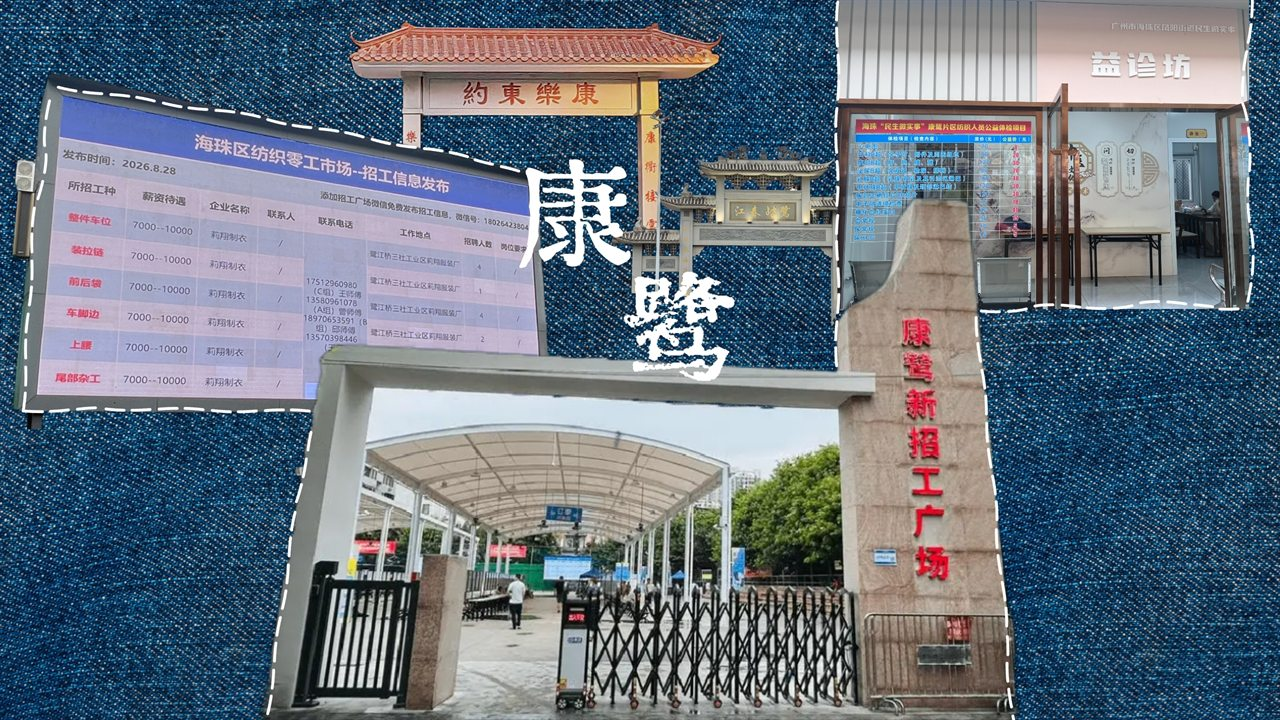
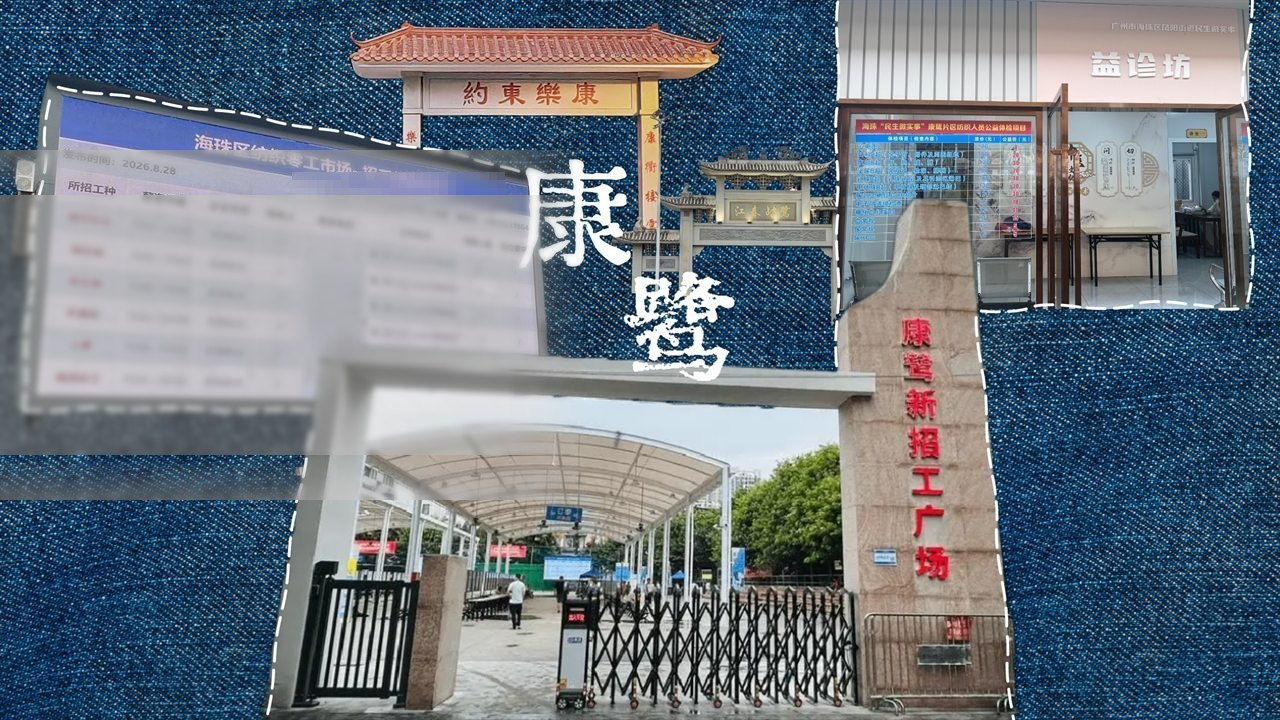
隐私修补：首页封面左半的三维招工屏纹理含可读微信号与手机号（OCR 实测 5 处），已整块柔化处理；OCR 复核 0 残留

Changed region(s): [[0.0, 0.1833, 0.4688, 0.7028], [0.2812, 0.6722, 0.4375, 0.7028]]

diff --git a/kanglu-terminal/map.html b/kanglu-terminal/map.html
@@ -5,9 +5,9 @@
 <meta name="viewport" content="width=device-width, initial-scale=1">
 <title>康鹭地图 · 康鹭记忆</title>
 <meta name="description" content="广州康鹭片区意象地图：产业空间、生活服务、治理节点、交通连接与区域外联五个图层，点击节点查看田野记录。">
-<link rel="stylesheet" href="assets/css/style.css?v=20260920-snm4">
-<link rel="stylesheet" href="assets/css/scene3d.css?v=20260920-snm4">
-<link rel="stylesheet" href="assets/css/scene-host.css?v=20260920-snm4">
+<link rel="stylesheet" href="assets/css/style.css?v=20260920-jkh0">
+<link rel="stylesheet" href="assets/css/scene3d.css?v=20260920-jkh0">
+<link rel="stylesheet" href="assets/css/scene-host.css?v=20260920-jkh0">
 <!-- share-card -->
   <meta property="og:type" content="website">
   <meta property="og:site_name" content="康鹭记忆">
@@ -24,7 +24,7 @@
   <link rel="icon" href="assets/img/favicon.svg">
   <link rel="alternate icon" href="assets/img/icon-180.png">
   <link rel="apple-touch-icon" href="assets/img/icon-180.png">
-<link rel="stylesheet" href="assets/css/brush.css?v=20260920-snm4">
+<link rel="stylesheet" href="assets/css/brush.css?v=20260920-jkh0">
 </head>
 <body data-page="map">
 
@@ -257,12 +257,12 @@
   </div>
 </footer>
 
-<script src="assets/js/data.js?v=20260920-snm4"></script>
-<script src="assets/js/people-data.js?v=20260920-snm4"></script>
-<script src="assets/js/main.js?v=20260920-snm4"></script>
-<script src="assets/js/scene-bundle.js?v=20260920-snm4"></script>
-<script src="assets/js/map3d.js?v=20260920-snm4"></script>
-<script src="assets/js/ai.js?v=20260920-snm4"></script>
+<script src="assets/js/data.js?v=20260920-jkh0"></script>
+<script src="assets/js/people-data.js?v=20260920-jkh0"></script>
+<script src="assets/js/main.js?v=20260920-jkh0"></script>
+<script src="assets/js/scene-bundle.js?v=20260920-jkh0"></script>
+<script src="assets/js/map3d.js?v=20260920-jkh0"></script>
+<script src="assets/js/ai.js?v=20260920-jkh0"></script>
 <script>initReveal();</script>
 </body>
 </html>

diff --git a/kanglu-terminal/index.html b/kanglu-terminal/index.html
@@ -5,9 +5,9 @@
 <meta name="viewport" content="width=device-width, initial-scale=1">
 <title>康鹭记忆 · 广州康鹭制衣村数字人文调研</title>
 <meta name="description" content="康鹭记忆：以数字人文方法记录广州海珠康乐村、鹭江村制衣产业的空间、产业与人物档案。">
-<link rel="stylesheet" href="assets/css/style.css?v=20260920-snm4">
-<link rel="stylesheet" href="assets/css/chapters.css?v=20260920-snm4">
-<link rel="stylesheet" href="assets/css/brush.css?v=20260920-snm4">
+<link rel="stylesheet" href="assets/css/style.css?v=20260920-jkh0">
+<link rel="stylesheet" href="assets/css/chapters.css?v=20260920-jkh0">
+<link rel="stylesheet" href="assets/css/brush.css?v=20260920-jkh0">
 <!-- share-card -->
   <meta property="og:type" content="website">
   <meta property="og:site_name" content="康鹭记忆">
@@ -351,11 +351,11 @@
   </div>
 </footer>
 
-<script src="assets/js/data.js?v=20260920-snm4"></script>
-<script src="assets/js/people-data.js?v=20260920-snm4"></script>
-<script src="assets/js/main.js?v=20260920-snm4"></script>
-<script src="assets/js/people.js?v=20260920-snm4"></script>
-<script src="assets/js/ai.js?v=20260920-snm4"></script>
+<script src="assets/js/data.js?v=20260920-jkh0"></script>
+<script src="assets/js/people-data.js?v=20260920-jkh0"></script>
+<script src="assets/js/main.js?v=20260920-jkh0"></script>
+<script src="assets/js/people.js?v=20260920-jkh0"></script>
+<script src="assets/js/ai.js?v=20260920-jkh0"></script>
 <script>
   document.getElementById('recPeople').textContent = PEOPLE.length;
   document.getElementById('recPoi').textContent = POIS.length;

diff --git a/kanglu-terminal/person.html b/kanglu-terminal/person.html
@@ -5,7 +5,7 @@
 <meta name="viewport" content="width=device-width, initial-scale=1">
 <title>人物档案 · 康鹭记忆</title>
 <meta name="description" content="广州康鹭制衣村人物口述档案的完整文本：身份标签、基本信息与完整叙述。为保护受访者，已隐去可识别信息。">
-<link rel="stylesheet" href="assets/css/style.css?v=20260920-snm4">
+<link rel="stylesheet" href="assets/css/style.css?v=20260920-jkh0">
 <!-- share-card -->
   <meta property="og:type" content="website">
   <meta property="og:site_name" content="康鹭记忆">
@@ -22,7 +22,7 @@
   <link rel="icon" href="assets/img/favicon.svg">
   <link rel="alternate icon" href="assets/img/icon-180.png">
   <link rel="apple-touch-icon" href="assets/img/icon-180.png">
-<link rel="stylesheet" href="assets/css/brush.css?v=20260920-snm4">
+<link rel="stylesheet" href="assets/css/brush.css?v=20260920-jkh0">
 </head>
 <body data-page="people">
 
@@ -80,11 +80,11 @@
   </div>
 </footer>
 
-<script src="assets/js/data.js?v=20260920-snm4"></script>
-<script src="assets/js/people-data.js?v=20260920-snm4"></script>
-<script src="assets/js/main.js?v=20260920-snm4"></script>
-<script src="assets/js/people.js?v=20260920-snm4"></script>
-<script src="assets/js/ai.js?v=20260920-snm4"></script>
+<script src="assets/js/data.js?v=20260920-jkh0"></script>
+<script src="assets/js/people-data.js?v=20260920-jkh0"></script>
+<script src="assets/js/main.js?v=20260920-jkh0"></script>
+<script src="assets/js/people.js?v=20260920-jkh0"></script>
+<script src="assets/js/ai.js?v=20260920-jkh0"></script>
 <script>
   initPersonDetail();
 </script>

diff --git a/kanglu-terminal/people.html b/kanglu-terminal/people.html
@@ -5,7 +5,7 @@
 <meta name="viewport" content="width=device-width, initial-scale=1">
 <title>人物档案 · 康鹭记忆</title>
 <meta name="description" content="广州康鹭制衣村的人物口述档案：4 份田野访谈，含散工、长工与「厂二代」，可按身份筛选与关键词检索。">
-<link rel="stylesheet" href="assets/css/style.css?v=20260920-snm4">
+<link rel="stylesheet" href="assets/css/style.css?v=20260920-jkh0">
 <!-- share-card -->
   <meta property="og:type" content="website">
   <meta property="og:site_name" content="康鹭记忆">
@@ -22,7 +22,7 @@
   <link rel="icon" href="assets/img/favicon.svg">
   <link rel="alternate icon" href="assets/img/icon-180.png">
   <link rel="apple-touch-icon" href="assets/img/icon-180.png">
-<link rel="stylesheet" href="assets/css/brush.css?v=20260920-snm4">
+<link rel="stylesheet" href="assets/css/brush.css?v=20260920-jkh0">
 </head>
 <body data-page="people">
 
@@ -139,11 +139,11 @@
   </div>
 </footer>
 
-<script src="assets/js/data.js?v=20260920-snm4"></script>
-<script src="assets/js/people-data.js?v=20260920-snm4"></script>
-<script src="assets/js/main.js?v=20260920-snm4"></script>
-<script src="assets/js/people.js?v=20260920-snm4"></script>
-<script src="assets/js/ai.js?v=20260920-snm4"></script>
+<script src="assets/js/data.js?v=20260920-jkh0"></script>
+<script src="assets/js/people-data.js?v=20260920-jkh0"></script>
+<script src="assets/js/main.js?v=20260920-jkh0"></script>
+<script src="assets/js/people.js?v=20260920-jkh0"></script>
+<script src="assets/js/ai.js?v=20260920-jkh0"></script>
 <script>
   initPeopleList();
 </script>

diff --git a/kanglu-terminal/background.html b/kanglu-terminal/background.html
@@ -5,7 +5,7 @@
 <meta name="viewport" content="width=device-width, initial-scale=1">
 <title>背景资料 · 康鹭记忆</title>
 <meta name="description" content="广州康鹭制衣村的区位、产业逻辑、空间形态、编年脉络、乡土词条与参考文献。">
-<link rel="stylesheet" href="assets/css/style.css?v=20260920-snm4">
+<link rel="stylesheet" href="assets/css/style.css?v=20260920-jkh0">
 <!-- share-card -->
   <meta property="og:type" content="website">
   <meta property="og:site_name" content="康鹭记忆">
@@ -22,7 +22,7 @@
   <link rel="icon" href="assets/img/favicon.svg">
   <link rel="alternate icon" href="assets/img/icon-180.png">
   <link rel="apple-touch-icon" href="assets/img/icon-180.png">
-<link rel="stylesheet" href="assets/css/brush.css?v=20260920-snm4">
+<link rel="stylesheet" href="assets/css/brush.css?v=20260920-jkh0">
 </head>
 <body data-page="background" class="has-sidenav">
 
@@ -368,10 +368,10 @@
   </div>
 </footer>
 
-<script src="assets/js/data.js?v=20260920-snm4"></script>
-<script src="assets/js/people-data.js?v=20260920-snm4"></script>
-<script src="assets/js/main.js?v=20260920-snm4"></script>
-<script src="assets/js/ai.js?v=20260920-snm4"></script>
+<script src="assets/js/data.js?v=20260920-jkh0"></script>
+<script src="assets/js/people-data.js?v=20260920-jkh0"></script>
+<script src="assets/js/main.js?v=20260920-jkh0"></script>
+<script src="assets/js/ai.js?v=20260920-jkh0"></script>
 <script>
   renderChain('#chain');
   renderTimeline('#tlFull');

diff --git a/kanglu-terminal/chronicle.html b/kanglu-terminal/chronicle.html
@@ -5,9 +5,9 @@
 <meta name="viewport" content="width=device-width, initial-scale=1">
 <title>变迁记录 · 康鹭记忆</title>
 <meta name="description" content="康鹭记忆：以数字人文方法记录广州海珠康乐村、鹭江村制衣产业的空间、产业与人物档案。">
-<link rel="stylesheet" href="assets/css/style.css?v=20260920-snm4">
-<link rel="stylesheet" href="assets/css/chapters.css?v=20260920-snm4">
-<link rel="stylesheet" href="assets/css/brush.css?v=20260920-snm4">
+<link rel="stylesheet" href="assets/css/style.css?v=20260920-jkh0">
+<link rel="stylesheet" href="assets/css/chapters.css?v=20260920-jkh0">
+<link rel="stylesheet" href="assets/css/brush.css?v=20260920-jkh0">
 <!-- share-card -->
   <meta property="og:type" content="website">
   <meta property="og:site_name" content="康鹭记忆">
@@ -268,10 +268,10 @@
   </div>
 </footer>
 
-<script src="assets/js/data.js?v=20260920-snm4"></script>
-<script src="assets/js/people-data.js?v=20260920-snm4"></script>
-<script src="assets/js/main.js?v=20260920-snm4"></script>
-<script src="assets/js/ai.js?v=20260920-snm4"></script>
+<script src="assets/js/data.js?v=20260920-jkh0"></script>
+<script src="assets/js/people-data.js?v=20260920-jkh0"></script>
+<script src="assets/js/main.js?v=20260920-jkh0"></script>
+<script src="assets/js/ai.js?v=20260920-jkh0"></script>
 <script>
   /* 变迁时间轴：按时间倒序渲染，标注「已发生 / 规划」
      ------------------------------------------------------------

diff --git a/kanglu-terminal/statement.html b/kanglu-terminal/statement.html
@@ -5,7 +5,7 @@
 <meta name="viewport" content="width=device-width, initial-scale=1">
 <title>声明与方法 · 康鹭记忆</title>
 <meta name="description" content="康鹭记忆项目声明：资料来源与影像使用、隐私与伦理处理、数据统计口径、AI 使用说明、地图性质与版权引用。">
-<link rel="stylesheet" href="assets/css/style.css?v=20260920-snm4">
+<link rel="stylesheet" href="assets/css/style.css?v=20260920-jkh0">
 <!-- share-card -->
   <meta property="og:type" content="website">
   <meta property="og:site_name" content="康鹭记忆">
@@ -22,7 +22,7 @@
   <link rel="icon" href="assets/img/favicon.svg">
   <link rel="alternate icon" href="assets/img/icon-180.png">
   <link rel="apple-touch-icon" href="assets/img/icon-180.png">
-<link rel="stylesheet" href="assets/css/brush.css?v=20260920-snm4">
+<link rel="stylesheet" href="assets/css/brush.css?v=20260920-jkh0">
 </head>
 <body data-page="statement">
 
@@ -270,9 +270,9 @@
   </div>
 </footer>
 
-<script src="assets/js/data.js?v=20260920-snm4"></script>
-<script src="assets/js/people-data.js?v=20260920-snm4"></script>
-<script src="assets/js/main.js?v=20260920-snm4"></script>
-<script src="assets/js/ai.js?v=20260920-snm4"></script>
+<script src="assets/js/data.js?v=20260920-jkh0"></script>
+<script src="assets/js/people-data.js?v=20260920-jkh0"></script>
+<script src="assets/js/main.js?v=20260920-jkh0"></script>
+<script src="assets/js/ai.js?v=20260920-jkh0"></script>
 </body>
 </html>
